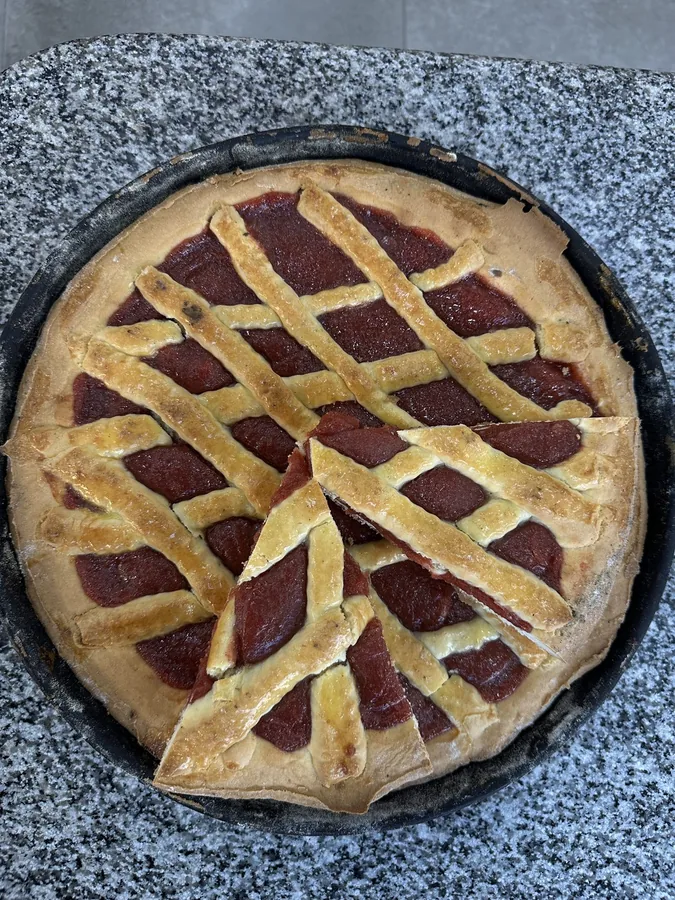
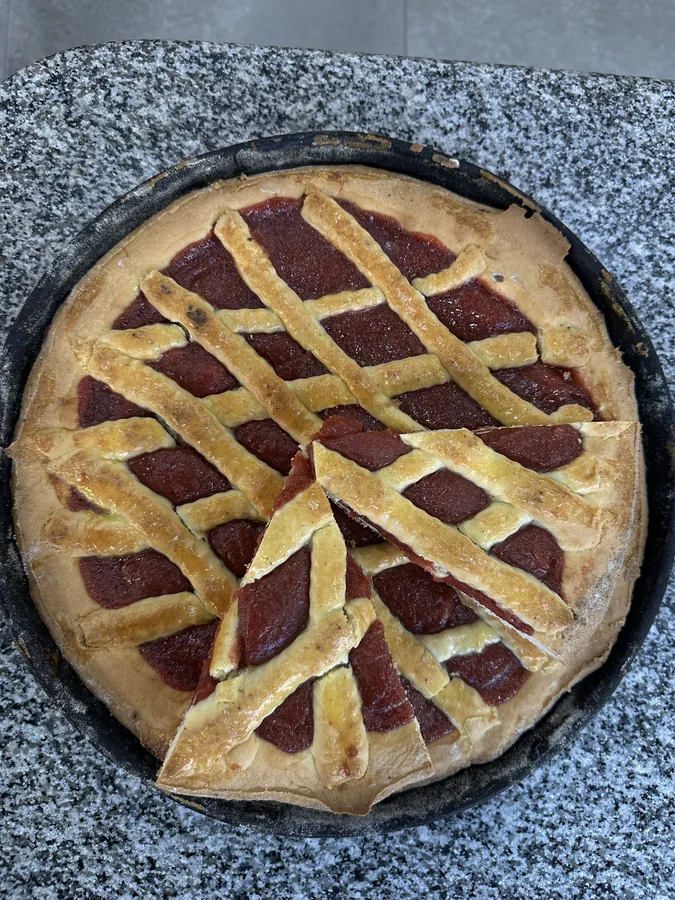
Carta: rogel, budín de pan, pasta frola y torta de ricota
Fotos nuevas del local, nombradas por Mateo.

La de la pasta frola reemplaza a la de ayer: es la misma torta, mejor
encuadrada. Y la de la torta de ricota muestra la torta entera con dos
porciones cortadas, así que va igual en la porción y en la entera por
encargue.

Claude-Session: https://claude.ai/code/session_018RgCP6nDtWYvHbZYoyEdfm

diff --git a/docs/index.html b/docs/index.html
@@ -1384,7 +1384,7 @@ const CARTA = [
     tab: "Postres",
     grupos: [
       { nombre: "Tortas, por porción", items: [
-        { n:"Rogel", d:"Capas de hojaldre rellenas con dulce de leche.", p:8000 },
+        { n:"Rogel", d:"Capas de hojaldre rellenas con dulce de leche.", p:8000, f:"rogel.webp" },
         { n:"Lemon pie", d:"Mousse de limón y merengue italiano.", p:8000 },
         { n:"Tarta de frutilla", d:"Crema chantilly, frutillas y gelatina.", p:8000, f:"tarta-frutilla.webp" },
         { n:"Cuatro chocolates", d:"Mousse de chocolate, de dulce de leche, de chocolate blanco y crema.", p:8500 },
@@ -1395,11 +1395,11 @@ const CARTA = [
         { n:"Torta mousse de limón", d:"Mousse de limón, brownie y dulce de leche.", p:8500, f:"torta-mousse-limon.webp" },
         { n:"Cheese cake", d:"Torta de queso crema, base de bizcochuelo y jalea de frutilla.", p:8500, f:"cheese-cake.webp" },
         { n:"Selva negra", d:"", p:8500 },
-        { n:"Torta de ricota", d:"Rellena de ricota.", p:3700 },
+        { n:"Torta de ricota", d:"Rellena de ricota.", p:3700, f:"torta-ricota.webp" },
         { n:"Pasta frola", d:"De membrillo.", p:2600, f:"pasta-frola.webp" },
       ]},
       { nombre: "Tortas enteras, por encargue", items: [
-        { n:"Torta de ricota entera", d:"", p:35000 },
+        { n:"Torta de ricota entera", d:"", p:35000, f:"torta-ricota.webp" },
         { n:"Pasta frola entera", d:"", p:20000, f:"pasta-frola.webp" },
         { n:"Tarta grande", d:"", p:72000 },
         { n:"Torta especial entera", d:"", p:76500 },
@@ -1408,7 +1408,7 @@ const CARTA = [
         { n:"Flan casero", d:"Con huevo y caramelo.", p:3700, f:"flan.webp" },
         { n:"Mousse de chocolate", d:"", p:3700, f:"mousse-chocolate.webp" },
         { n:"Tiramisú con dulce de leche", d:"Crema italiana casera, vainilla y dulce de leche.", p:4300 },
-        { n:"Budín de pan", d:"Con caramelo.", p:4300 },
+        { n:"Budín de pan", d:"Con caramelo.", p:4300, f:"budin-de-pan.webp" },
         { n:"Adicional de dulce de leche o crema", d:"", p:1300 },
       ]},
     ]
@@ -1562,6 +1562,7 @@ addEventListener("keydown", e => { if(e.key === "Escape") cerrarFoto(); });
    cortada), así que cada una tiene su propia forma y hay que saberla. */
 const MEDIDAS = {
   /* MEDIDAS-EMPIEZA */
+    "budin-de-pan.webp": [675, 900],
     "cafe-con-leche.webp": [675, 900],
     "cafe-medialunas.webp": [675, 900],
     "cafe-ricota.webp": [730, 900],
@@ -1579,11 +1580,13 @@ const MEDIDAS = {
     "pascualina.webp": [675, 900],
     "pasta-frola.webp": [675, 900],
     "pizza-especial.webp": [675, 900],
+    "rogel.webp": [675, 900],
     "submarino.webp": [675, 900],
     "tarta-frutilla.webp": [675, 900],
     "tarta-humita.webp": [675, 900],
     "tarta-pollo.webp": [675, 900],
     "torta-mousse-limon.webp": [675, 900],
+    "torta-ricota.webp": [675, 900],
     "zepelin.webp": [675, 900],
   /* MEDIDAS-TERMINA */
 };

diff --git a/index.html b/index.html
@@ -1319,7 +1319,7 @@ const CARTA = [
     tab: "Postres",
     grupos: [
       { nombre: "Tortas, por porción", items: [
-        { n:"Rogel", d:"Capas de hojaldre rellenas con dulce de leche.", p:8000 },
+        { n:"Rogel", d:"Capas de hojaldre rellenas con dulce de leche.", p:8000, f:"rogel.webp" },
         { n:"Lemon pie", d:"Mousse de limón y merengue italiano.", p:8000 },
         { n:"Tarta de frutilla", d:"Crema chantilly, frutillas y gelatina.", p:8000, f:"tarta-frutilla.webp" },
         { n:"Cuatro chocolates", d:"Mousse de chocolate, de dulce de leche, de chocolate blanco y crema.", p:8500 },
@@ -1330,11 +1330,11 @@ const CARTA = [
         { n:"Torta mousse de limón", d:"Mousse de limón, brownie y dulce de leche.", p:8500, f:"torta-mousse-limon.webp" },
         { n:"Cheese cake", d:"Torta de queso crema, base de bizcochuelo y jalea de frutilla.", p:8500, f:"cheese-cake.webp" },
         { n:"Selva negra", d:"", p:8500 },
-        { n:"Torta de ricota", d:"Rellena de ricota.", p:3700 },
+        { n:"Torta de ricota", d:"Rellena de ricota.", p:3700, f:"torta-ricota.webp" },
         { n:"Pasta frola", d:"De membrillo.", p:2600, f:"pasta-frola.webp" },
       ]},
       { nombre: "Tortas enteras, por encargue", items: [
-        { n:"Torta de ricota entera", d:"", p:35000 },
+        { n:"Torta de ricota entera", d:"", p:35000, f:"torta-ricota.webp" },
         { n:"Pasta frola entera", d:"", p:20000, f:"pasta-frola.webp" },
         { n:"Tarta grande", d:"", p:72000 },
         { n:"Torta especial entera", d:"", p:76500 },
@@ -1343,7 +1343,7 @@ const CARTA = [
         { n:"Flan casero", d:"Con huevo y caramelo.", p:3700, f:"flan.webp" },
         { n:"Mousse de chocolate", d:"", p:3700, f:"mousse-chocolate.webp" },
         { n:"Tiramisú con dulce de leche", d:"Crema italiana casera, vainilla y dulce de leche.", p:4300 },
-        { n:"Budín de pan", d:"Con caramelo.", p:4300 },
+        { n:"Budín de pan", d:"Con caramelo.", p:4300, f:"budin-de-pan.webp" },
         { n:"Adicional de dulce de leche o crema", d:"", p:1300 },
       ]},
     ]
@@ -1497,6 +1497,7 @@ addEventListener("keydown", e => { if(e.key === "Escape") cerrarFoto(); });
    cortada), así que cada una tiene su propia forma y hay que saberla. */
 const MEDIDAS = {
   /* MEDIDAS-EMPIEZA */
+    "budin-de-pan.webp": [675, 900],
     "cafe-con-leche.webp": [675, 900],
     "cafe-medialunas.webp": [675, 900],
     "cafe-ricota.webp": [730, 900],
@@ -1514,11 +1515,13 @@ const MEDIDAS = {
     "pascualina.webp": [675, 900],
     "pasta-frola.webp": [675, 900],
     "pizza-especial.webp": [675, 900],
+    "rogel.webp": [675, 900],
     "submarino.webp": [675, 900],
     "tarta-frutilla.webp": [675, 900],
     "tarta-humita.webp": [675, 900],
     "tarta-pollo.webp": [675, 900],
     "torta-mousse-limon.webp": [675, 900],
+    "torta-ricota.webp": [675, 900],
     "zepelin.webp": [675, 900],
   /* MEDIDAS-TERMINA */
 };
